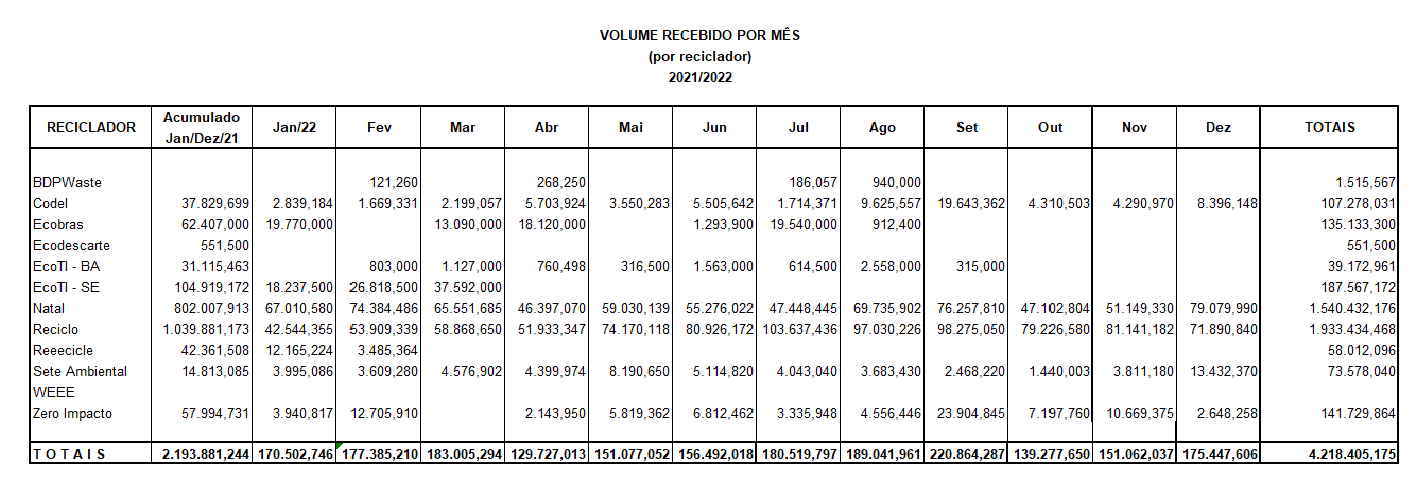
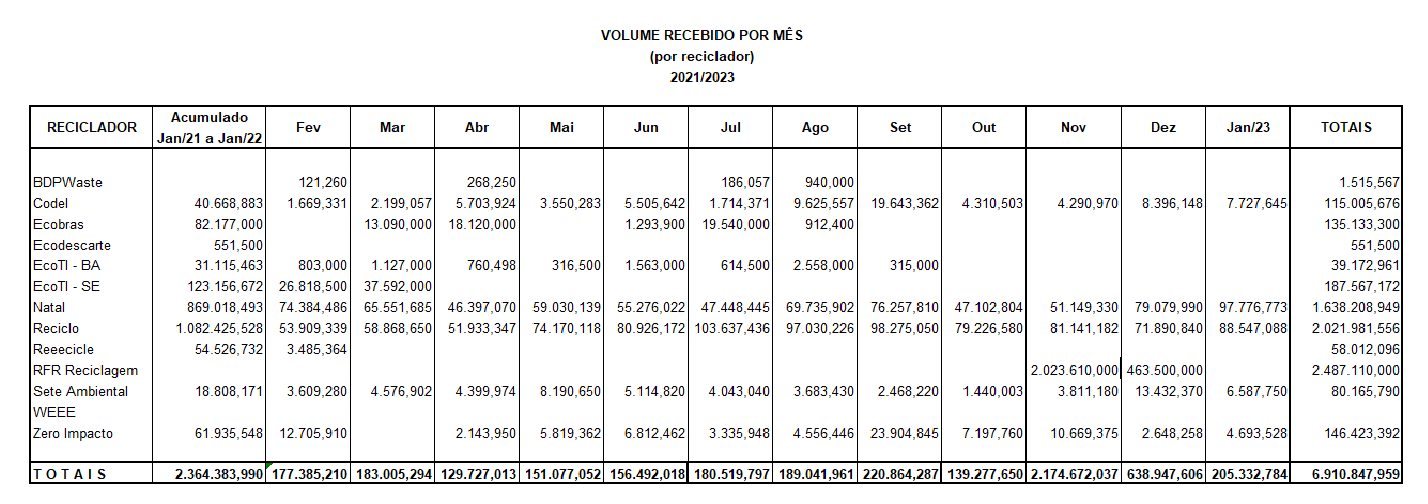
Dash de Jan23

Changed region(s): [[0.0, 0.031, 0.9929, 0.9607], [0.0, 0.3409, 0.0931, 0.8678]]

diff --git a/frontend/src/components/DataTable/index.tsx b/frontend/src/components/DataTable/index.tsx
@@ -10,8 +10,7 @@ const DataTable = () => {
                         <th>OS's</th>
                         <th>OD's</th>
                         <th>Estoque em 31/12/22 (Kg)</th>
-                        <th>Peso Reciclado (Kg)</th>
-                        
+                        <th>Peso Reciclado (Kg)</th>                        
                     </tr>
                     <tr>
                         <td>BDPWaste</td>
@@ -23,11 +22,11 @@ const DataTable = () => {
                     </tr>
                     <tr>
                         <td>Codel</td>
-                        <td>183</td>
-                        <td>324</td>
-                        <td>675</td>
-                        <td>17.155,637</td>
-                        <td>77.808,448</td>
+                        <td>196</td>
+                        <td>346</td>
+                        <td>727</td>
+                        <td>18.066,533</td>
+                        <td>85.147,863</td>
                     </tr>
                     <tr>
                         <td>Ecobras</td>
@@ -63,20 +62,20 @@ const DataTable = () => {
                     </tr>
                     <tr>
                         <td>Natal</td>
-                        <td>506</td>
-                        <td>2.960</td>
-                        <td>468</td>
-                        <td>149.586,677</td>
-                        <td>1.335.220,493</td>
+                        <td>509</td>
+                        <td>3.077</td>
+                        <td>483</td>
+                        <td>101.573,729</td>
+                        <td>1.355.667,421</td>
                     </tr>
                     <tr>
                         <td>Reciclo</td>
-                        <td>1.058</td>
-                        <td>2.066</td>
-                        <td>1.471</td>
-                        <td>75.252,714</td>
-                        <td>2.004.127,407</td>
-                    </tr>
+                        <td>1.146</td>
+                        <td>2.172</td>
+                        <td>1.538</td>
+                        <td>86.010,346</td>
+                        <td>2.089.971,010</td>
+                    </tr>                    
                     <tr>
                         <td>Reeecicle</td>
                         <td>49</td>
@@ -84,13 +83,20 @@ const DataTable = () => {
                         <td>1</td>
                         <td>35.630,687</td>
                         <td>184,200</td>
+                    </tr><tr>
+                        <td>RFR Reciclagem</td>
+                        <td>0</td>
+                        <td>6</td>
+                        <td>69</td>
+                        <td>0,000</td>
+                        <td>2.487.100,000</td>
                     </tr>
                     <tr>
                         <td>Sete Ambiental</td>
-                        <td>1.054</td>
-                        <td>815</td>
+                        <td>1.084</td>
+                        <td>852</td>
                         <td>17</td>
-                        <td>66.283,072</td>
+                        <td>73.090,672</td>
                         <td>609,600</td>
                     </tr>
                     <tr>
@@ -104,7 +110,7 @@ const DataTable = () => {
                     <tr>
                         <td>Zero Impacto</td>
                         <td>85</td>
-                        <td>709</td>
+                        <td>765</td>
                         <td>79</td>
                         <td>75.615,387</td>
                         <td>72.004,772</td>
@@ -119,11 +125,11 @@ const DataTable = () => {
                     </tr>
                     <tr>
                         <th>T O T A I S</th>
-                        <th>3.010</th>
-                        <th>7.337</th>
-                        <th>2.906</th>
-                        <th>634.889,813</th>
-                        <th>3.571.219,321</th>
+                        <th>3.144</th>
+                        <th>7.681</th>
+                        <th>3.109</th>
+                        <th>605.372,993</th>
+                        <th>6.171.949,267</th>
                     </tr>
                 </thead>
                 <tbody>

diff --git a/frontend/src/components/BarRecbMensal/index.tsx b/frontend/src/components/BarRecbMensal/index.tsx
@@ -16,12 +16,12 @@ const BarRecbMensal = () => {
     
     const mockData = {
         labels: {
-            categories: ['Jan', 'Fev', 'Mar', 'Abr', 'Mai', 'Jun', 'Jul', 'Ago', 'Set', 'Out', 'Nov', 'Dez', 'Jan/22', 'Fev', 'Mar', 'Abr', 'Mai', 'Jun', "Jul", "Ago", "Set", "Out", "Nov", "Dez"]
+            categories: ['Jan/21', 'Fev', 'Mar', 'Abr', 'Mai', 'Jun', 'Jul', 'Ago', 'Set', 'Out', 'Nov', 'Dez', 'Jan/22', 'Fev', 'Mar', 'Abr', 'Mai', 'Jun', "Jul", "Ago", "Set", "Out", "Nov", "Dez", "Jan/23"]
         },
         series: [
             {
                 name: "Kg Recebidos",
-                data: [108468, 113628,	123526, 138370, 186067, 187866, 219556, 162479, 257534, 204908, 255846, 235632, 170503, 177506, 183005, 129727, 151077, 156492, 180337, 189042, 220864, 139238, 151062, 175448]                  
+                data: [108468, 113628,	123526, 138370, 186067, 187866, 219556, 162479, 257534, 204908, 255846, 235632, 170503, 177506, 183005, 129727, 151077, 156492, 180520, 189042, 220864, 139278, 2174672, 638948, 205333]                  
             }
         ]
     };

diff --git a/frontend/src/components/BarReciclMensal/index.tsx b/frontend/src/components/BarReciclMensal/index.tsx
@@ -16,12 +16,12 @@ const BarReciclMensal = () => {
     
     const mockData = {
         labels: {
-            categories: ['Jan', 'Fev', 'Mar', 'Abr', 'Mai', 'Jun', 'Jul', 'Ago', 'Set', 'Out', 'Nov', 'Dez', 'Jan/22', 'Fev', 'Mar', 'Abr', 'Mai', 'Jun', 'Jul', "Ago", "Set", "Out", "Nov", "Dez"]
+            categories: ['Jan/21', 'Fev', 'Mar', 'Abr', 'Mai', 'Jun', 'Jul', 'Ago', 'Set', 'Out', 'Nov', 'Dez', 'Jan/22', 'Fev', 'Mar', 'Abr', 'Mai', 'Jun', 'Jul', "Ago", "Set", "Out", "Nov", "Dez", "Jan/23"]
         },
         series: [
             {
                 name: "Kg Reciclados",
-                data: [26339, 90712, 93643, 142116, 166545, 219788, 189244, 197028, 209382, 176002, 176982, 162728, 128780, 136990, 181336, 84713, 112874, 154528, 138325, 172608, 207822, 160358, 164532, 77846]                  
+                data: [26339, 90712, 93643, 142116, 166545, 219788, 189244, 197028, 209382, 176002, 176982, 162728, 128780, 136990, 181336, 84713, 112874, 154528, 138325, 172608, 207822, 160358, 1986182, 743296, 113629]                  
             }
         ]
     };

diff --git a/frontend/src/components/BarChart/index.tsx b/frontend/src/components/BarChart/index.tsx
@@ -12,12 +12,12 @@ const BarChart = () => {
     
     const mockData = {
         labels: {
-            categories: ['BDPWaste', 'Codel', 'Ecobras', 'Ecodescarte', 'EcoTI - BA', 'EcoTI - SE', 'Natal', 'Reciclo', 'Reeecicle', 'Sete Ambiental', 'WEEE', 'Zero Impacto']
+            categories: ['BDPWaste', 'Codel', 'Ecobras', 'Ecodescarte', 'EcoTI - BA', 'EcoTI - SE', 'Natal', 'Reciclo', 'Reeecicle', 'RFR Reciclagem' , 'Sete Ambiental', 'WEEE', 'Zero Impacto']
         },
-        series: [
+            series: [
             {
                 name: "Ton Reciclados",
-                data: [0, 77.808, 46.304, 0, 9.459, 25.501, 1335.220, 2004.127, 0.184, 0.610, 0, 72.005]                  
+                data: [0, 85.148, 46.304, 0, 9.459, 25.501, 1355.667, 2089.971, 0.184, 2487.100, 0.610, 0, 72.005]                  
             }
         ]
     };

diff --git a/frontend/src/App.tsx b/frontend/src/App.tsx
@@ -36,22 +36,7 @@ function App() {
           </div>
         </div>
 
-        <h3 className="text-center text-primary py-3">Atingimento das Metas 2022</h3>
-
-        <div className="row px-3">
-
-          <div className="col-sm-6">
-            <h4 className="text-center text-secondary">Novos Recicladores na Plataforma</h4>
-            <h5 className="text-center text-secondary">(Meta = 14)</h5>
-            <MetaR />
-          </div>
-          <div className="col-sm-6">
-            <h4 className="text-center text-secondary">Volume de REEE coletado</h4>
-            <h5 className="text-center text-secondary">(Meta = 7.700.000 Kg)</h5>
-            <MetaV />
-          </div>
-        </div>
-
+   
         <h3 className="text-center text-primary py-3">Volumes Recebidos/Processados</h3>
         
         <div className="row px-3">

diff --git a/frontend/src/components/BarOSs/index.tsx b/frontend/src/components/BarOSs/index.tsx
@@ -17,12 +17,12 @@ const BarOSs = () => {
     
     const mockData = {
         labels: {
-            categories: ['BDPWaste', 'Codel', 'Ecobras', 'Ecodescarte', 'EcoTI - BA', 'EcoTI - SE', 'Natal', 'Reciclo', 'Reeecicle', 'Sete Ambiental', 'WEEE', 'Zero Impacto']
+            categories: ['BDPWaste', 'Codel', 'Ecobras', 'Ecodescarte', 'EcoTI - BA', 'EcoTI - SE', 'Natal', 'Reciclo', 'Reeecicle', 'RFR Reciclagem' , 'Sete Ambiental', 'WEEE', 'Zero Impacto']
         },
         series: [
             {
                 name: "OS's Abertas",
-                data: [11, 324, 17, 6, 64, 158, 2960, 2066, 206, 815, 12, 709]                  
+                data: [11, 346, 17, 6, 64, 158, 3077, 2172, 206, 6, 852, 12, 765]                  
             }
         ]
     };

diff --git a/frontend/src/components/BarOTs/index.tsx b/frontend/src/components/BarOTs/index.tsx
@@ -17,12 +17,12 @@ const BarOTs = () => {
     
     const mockData = {
         labels: {
-            categories: ['BDPWaste', 'Codel', 'Ecobras', 'Ecodescarte', 'EcoTI - BA', 'EcoTI - SE', 'Natal', 'Reciclo', 'Reeecicle', 'Sete Ambiental', 'WEEE', 'Zero Impacto']
+            categories: ['BDPWaste', 'Codel', 'Ecobras', 'Ecodescarte', 'EcoTI - BA', 'EcoTI - SE', 'Natal', 'Reciclo', 'Reeecicle', 'RFR Reciclagem' , 'Sete Ambiental', 'WEEE', 'Zero Impacto']
         },
         series: [
             {
                 name: "OT's Abertas",
-                data: [2, 183, 0, 37, 24, 14, 506, 1058, 49, 1054, 0, 85]                  
+                data: [2, 196, 0, 37, 24, 14, 509, 1146, 49, 0, 1084, 0, 85]                  
             }
         ]
     };

diff --git a/frontend/src/components/BarODs/index.tsx b/frontend/src/components/BarODs/index.tsx
@@ -17,12 +17,12 @@ const BarODs = () => {
     
     const mockData = {
         labels: {
-            categories: ['BDPWaste', 'Codel', 'Ecobras', 'Ecodescarte', 'EcoTI - BA', 'EcoTI - SE', 'Natal', 'Reciclo', 'Reeecicle', 'Sete Ambiental', 'WEEE', 'Zero Impacto']
+            categories: ['BDPWaste', 'Codel', 'Ecobras', 'Ecodescarte', 'EcoTI - BA', 'EcoTI - SE', 'Natal', 'Reciclo', 'Reeecicle', 'RFR Reciclagem' , 'Sete Ambiental', 'WEEE', 'Zero Impacto']
         },
         series: [
             {
                 name: "OD's Abertas",
-                data: [0, 675, 23, 0, 49, 52, 468, 1471, 1, 17, 71, 79]                  
+                data: [0, 727, 23, 0, 49, 52, 483, 1538, 1, 69, 17, 71, 79]                  
             }
         ]
     };
